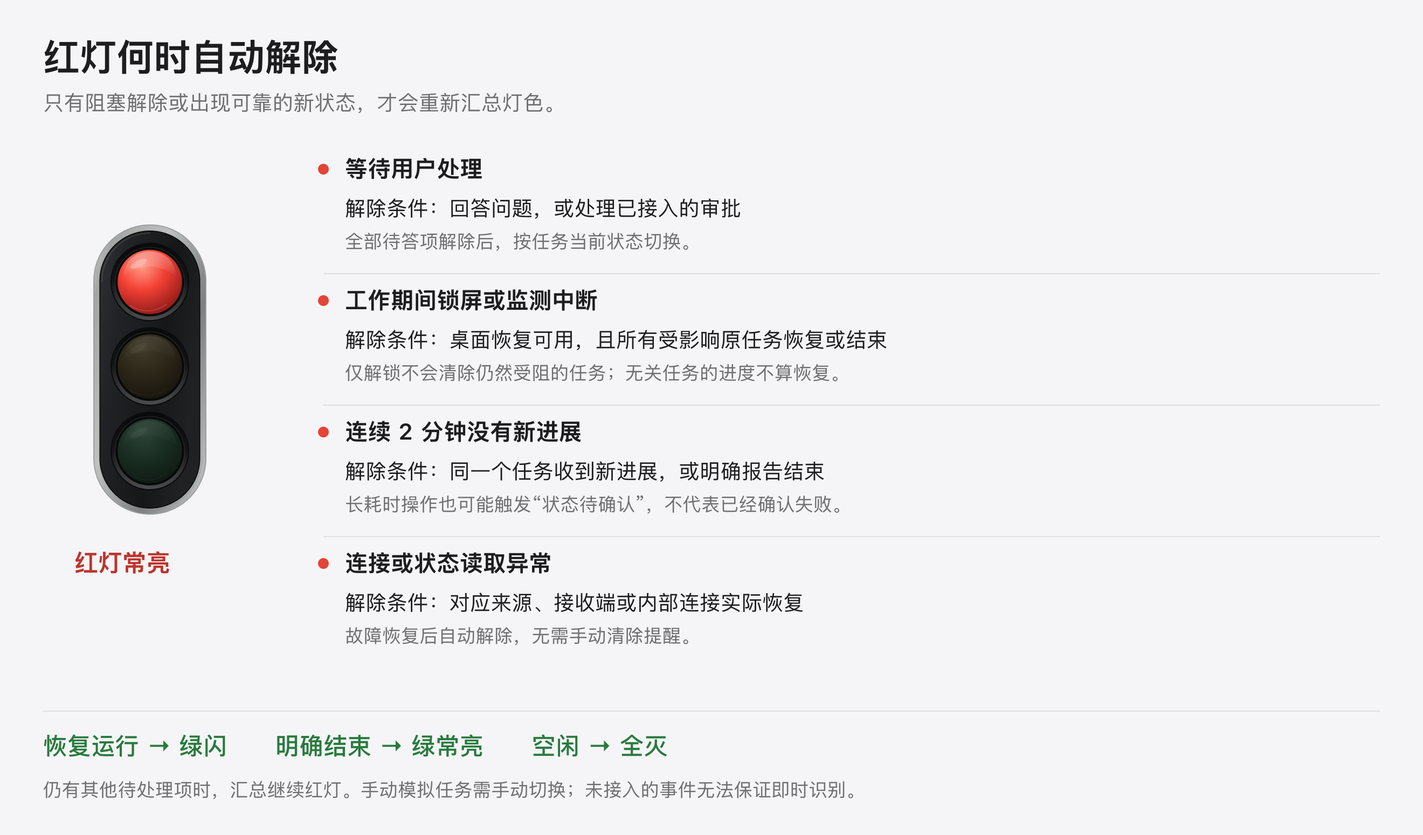
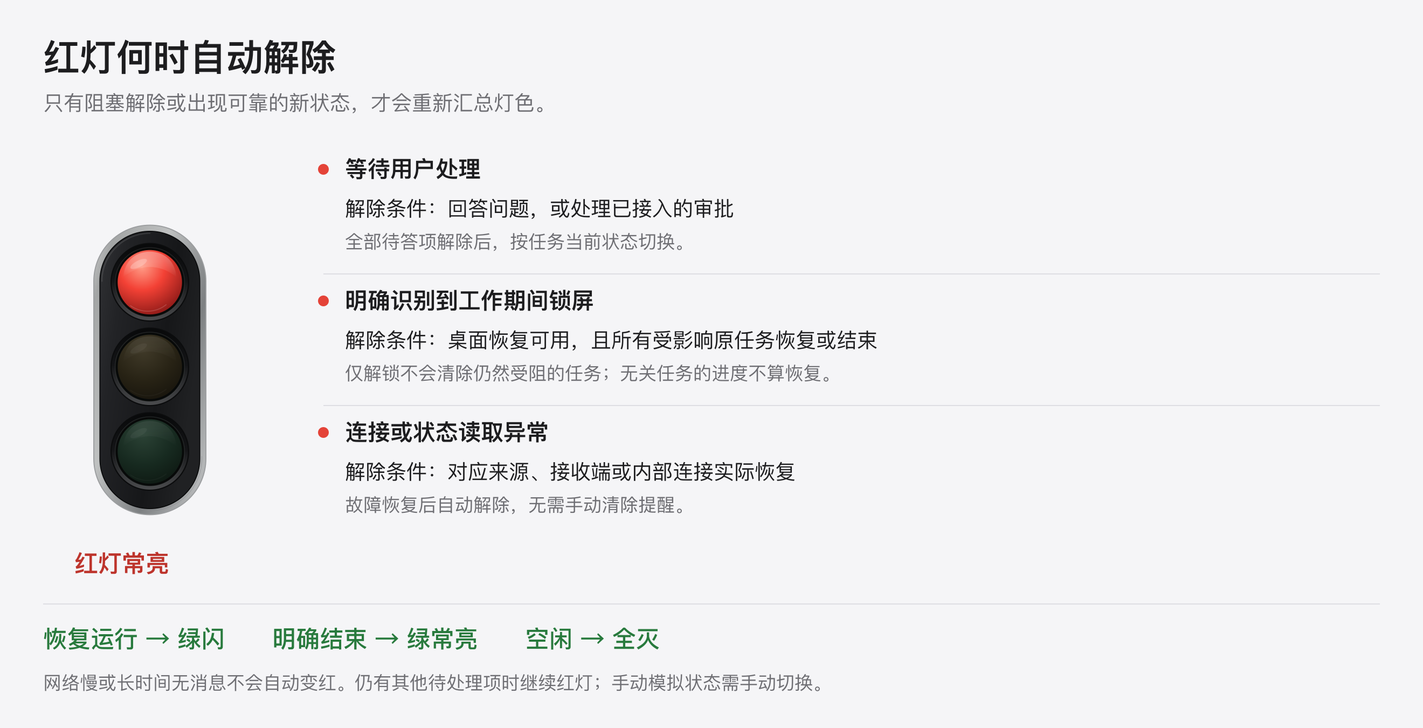
Fix false red lights during quiet or slow tasks in AI Signal 0.1.3

diff --git a/src/App.tsx b/src/App.tsx
@@ -122,6 +122,6 @@ function TaskList({tasks,now,onError}:{tasks:Task[];now:number;onError:(error:st
   const sorted=[...tasks].sort((a,b)=>statuses.indexOf(a.status)-statuses.indexOf(b.status)||b.updatedAt-a.updatedAt);
   return <section className="tasks"><div className="section-heading"><h2>任务</h2><div>{tasks.some(t=>!t.external&&(t.status==='idle'||t.status==='completed'))&&<button className="text-button" onClick={actions.clearCompleted}>清理已结束</button>}<button className="text-button" disabled={tasks.filter(t=>!t.external).length>=100} onClick={()=>setAdding(!adding)}><Plus size={14}/>添加</button></div></div>
     {adding&&<form className="add-form" onSubmit={e=>{e.preventDefault();if(title.trim()){actions.add(title);setTitle('');setAdding(false);}}}><input autoFocus maxLength={200} placeholder="任务名称" aria-label="新任务名称" value={title} onChange={e=>setTitle(e.target.value)}/><button className="button primary" type="submit" disabled={!title.trim()}>添加</button><button className="icon-button" type="button" aria-label="取消添加" onClick={()=>setAdding(false)}><X size={15}/></button></form>}
-    <div className="group task-list">{sorted.length===0?<p className="empty">暂无任务</p>:sorted.map(task=><div className="task-row" key={`${task.external?'external:':'local:'}${task.id}`}><span className={`status-dot ${task.status}`}/><div className="task-title"><strong title={task.title}>{task.title}</strong><small title={task.message}>{task.source}{task.external&&now-task.updatedAt>900_000?' · 状态可能过期':''}</small>{(task.id.startsWith('monitor:')||task.status==='attention')&&task.message&&<p className="task-reason">{task.message}</p>}</div>{!task.external?<select aria-label={`${task.title}的状态`} value={task.status} className={`task-status ${task.status}`} onChange={e=>actions.status(task.id,e.target.value as Status)}>{statuses.map(s=><option key={s} value={s}>{labels[s]}</option>)}</select>:<span className={`external-status ${task.status}`} title={formatAge(task.updatedAt,now)}>{labels[task.status]}</span>}{task.id.startsWith('monitor:')?<button className="text-button acknowledge" onClick={()=>void invoke('acknowledge_monitor',{id:task.id}).catch(e=>onError(String(e)))}>已检查</button>:<button className="delete-task" title={task.external?'移除状态；来源再次上报会重新加入':'删除任务'} aria-label={`${task.external?'移除':'删除'}${task.title}`} onClick={()=>{if(task.external)void invoke('remove_external_task',{id:task.id}).catch(e=>onError(String(e)));else actions.remove(task.id);}}><Trash2 size={14}/></button>}</div>)}</div>
+    <div className="group task-list">{sorted.length===0?<p className="empty">暂无任务</p>:sorted.map(task=><div className="task-row" key={`${task.external?'external:':'local:'}${task.id}`}><span className={`status-dot ${task.status}`}/><div className="task-title"><strong title={task.title}>{task.title}</strong><small title={task.message}>{task.source}{task.external&&now-task.updatedAt>900_000?' · 暂未收到新进展':''}</small>{(task.id.startsWith('monitor:')||task.status==='attention')&&task.message&&<p className="task-reason">{task.message}</p>}</div>{!task.external?<select aria-label={`${task.title}的状态`} value={task.status} className={`task-status ${task.status}`} onChange={e=>actions.status(task.id,e.target.value as Status)}>{statuses.map(s=><option key={s} value={s}>{labels[s]}</option>)}</select>:<span className={`external-status ${task.status}`} title={formatAge(task.updatedAt,now)}>{labels[task.status]}</span>}{task.id.startsWith('monitor:')?<button className="text-button acknowledge" onClick={()=>void invoke('acknowledge_monitor',{id:task.id}).catch(e=>onError(String(e)))}>已检查</button>:<button className="delete-task" title={task.external?'移除状态；来源再次上报会重新加入':'删除任务'} aria-label={`${task.external?'移除':'删除'}${task.title}`} onClick={()=>{if(task.external)void invoke('remove_external_task',{id:task.id}).catch(e=>onError(String(e)));else actions.remove(task.id);}}><Trash2 size={14}/></button>}</div>)}</div>
   </section>;
 }

diff --git a/src/Connections.tsx b/src/Connections.tsx
@@ -46,7 +46,7 @@ export function Connections({bridge,onError}:{bridge?:BridgeInfo;onError:(error:
     <p className="footnote">Codex 仅识别本机可读取的会话。Claude Code 配置后，请在已信任的工作区继续或开始一次任务。</p>
     {bridge?.error&&<div className="notice" role="alert">{bridge.error}</div>}
     <section className="group disclosures">
-      <details><summary>识别范围</summary><div className="details-body"><p>Codex 使用本机会话生命周期记录兼容识别。连接时会扫描近期仍在运行的任务，软件版本、存储位置和云端执行可能影响结果；不会推断所有 Codex Desktop 会话。</p><p>本机识别不能可靠判断所有审批或修复状态。可通过高级 Hooks 接入补充精确事件。连续 2 分钟没有新进展会亮红灯，提示检查原任务；耗时操作也可能触发。运行期间锁屏或监测暂停，原任务恢复进展或结束后自动解除；仅解锁不会误清除仍受阻的任务。</p><p>Claude Code 连接会合并本机状态 Hooks，保留现有配置并自动备份。需要软件支持命令参数 Hooks，并完成其工作区信任；收到真实事件后才显示已识别任务。</p><p>断开时只移除本应用的连接与任务，不改动其他软件设置。Codex 优先使用会话标题，其他来源使用项目目录名，不上传对话内容。</p></div></details>
+      <details><summary>识别范围</summary><div className="details-body"><p>Codex 使用本机会话生命周期记录兼容识别。连接时会扫描近期仍在运行的任务，软件版本、存储位置和云端执行可能影响结果；不会推断所有 Codex Desktop 会话。</p><p>本机识别不能可靠判断所有审批或修复状态。可通过高级 Hooks 接入补充精确事件。耗时操作、网络慢或长时间无新事件会保留最近明确状态，不会仅因此亮红灯。明确识别到运行期间锁屏时，原任务恢复进展或结束后自动解除；仅解锁不会误清除仍受阻的任务。</p><p>Claude Code 连接会合并本机状态 Hooks，保留现有配置并自动备份。需要软件支持命令参数 Hooks，并完成其工作区信任；收到真实事件后才显示已识别任务。</p><p>断开时只移除本应用的连接与任务，不改动其他软件设置。Codex 优先使用会话标题，其他来源使用项目目录名，不上传对话内容。</p></div></details>
       <details><summary>高级接入</summary><div className="details-body"><p>其他支持事件或 Hooks 的软件可通过本机接口上报任务。</p><p>{bridge?.available?`接收地址：127.0.0.1:${bridge.port}`:'本机接收端仅在桌面应用中可用。'}</p><p>Codex Hooks 配置生成：</p><code>python3 integrations/generate_hooks.py</code><p>先连接 Codex，再审阅配置并在 Codex 中信任 Hooks。完整步骤见 docs/INTEGRATION.md。</p><p>黄灯需明确上报；Stop 只表示本轮结束。</p><a href="https://learn.chatgpt.com/docs/hooks" target="_blank" rel="noreferrer">Codex 官方文档<ExternalLink size={12}/></a><br/><a href="https://code.claude.com/docs/en/hooks" target="_blank" rel="noreferrer">Claude Code 官方文档<ExternalLink size={12}/></a></div></details>
     </section>
   </>;

diff --git a/src-tauri/src/monitor.rs b/src-tauri/src/monitor.rs
@@ -3,11 +3,9 @@ use serde::{Deserialize, Serialize};
 use std::{collections::HashMap, time::{Duration, SystemTime, UNIX_EPOCH}};
 use tauri::{Emitter, Manager};
 
-const STALE_MS: u64 = 120_000;
-const SUSPEND_GAP_MS: u64 = 20_000;
 fn now_ms() -> u64 {SystemTime::now().duration_since(UNIX_EPOCH).unwrap_or_default().as_millis() as u64}
 fn working(task: &ExternalTask) -> bool {matches!(task.status, Status::Running | Status::Repairing)}
-fn sticky(id: &str) -> bool {matches!(id, "monitor:screen" | "monitor:suspend")}
+fn sticky(id: &str) -> bool {id == "monitor:screen"}
 
 #[derive(Default, Deserialize, Serialize)]
 struct SavedMonitor {
@@ -18,12 +16,8 @@ struct SavedMonitor {
 #[derive(Default)]
 pub(crate) struct Monitor {
     alerts: HashMap<String, ExternalTask>,
-    grace: HashMap<String, u64>,
     targets: HashMap<String,HashMap<String,u64>>,
     recovery_after: HashMap<String,u64>,
-    last_tick: u64,
-    was_busy: bool,
-    previous_working: HashMap<String,u64>,
     desktop_blocked: bool,
 }
 impl Monitor {
@@ -54,15 +48,9 @@ impl Monitor {
                 _=>{}
             }
         }
-        if (busy || self.was_busy) && self.last_tick!=0 && now.saturating_sub(self.last_tick)>SUSPEND_GAP_MS {
-            self.raise("monitor:suspend", "工作期间监测曾中断", "电脑可能睡眠，或监测进程曾暂停超过 20 秒。原任务恢复或结束后自动解除。", now);
-            self.track_affected("monitor:suspend",tasks);
-            let affected=self.targets.entry("monitor:suspend".into()).or_default();
-            for (id,at) in &self.previous_working {affected.entry(id.clone()).or_insert(*at);}
-        }
         if !self.desktop_blocked {
             let mut recovered=Vec::new();
-            for id in ["monitor:screen","monitor:suspend"] {
+            for id in ["monitor:screen"] {
                 let Some(alert)=self.alerts.get(id) else {continue;};
                 let after=*self.recovery_after.entry(id.into()).or_insert(now);
                 // Migrate older reminders without treating an unrelated task as recovery evidence.
@@ -75,9 +63,6 @@ impl Monitor {
             }
             for id in recovered {self.alerts.remove(&id);self.targets.remove(&id);self.recovery_after.remove(&id);}
         }
-        self.last_tick=now;
-        self.was_busy=busy;
-        self.previous_working=tasks.iter().filter(|task|working(task)).map(|task|(task.id.clone(),task.updated_at)).collect();
         let mut keep=Vec::new();
         if busy && self.desktop_blocked {keep.push("monitor:desktop".to_owned());}
         for (provider,error) in faults {
@@ -85,22 +70,14 @@ impl Monitor {
             self.raise(&id,"任务连接异常", &format!("{provider}：{error}。当前状态无法确认，请检查来源软件。"),now);
             keep.push(id);
         }
-        for task in tasks.iter().filter(|task|working(task)) {
-            let id=format!("monitor:stale:{}",task.id);
-            let last=task.updated_at.max(*self.grace.get(&task.id).unwrap_or(&0));
-            if now.saturating_sub(last)>=STALE_MS {
-                self.raise(&id,&format!("状态待确认：{}", task.title),"连续 2 分钟没有收到新进展。可能在执行耗时操作，也可能在等待权限、网络或人工处理；请检查原任务。收到新进展后自动解除。",now);
-                keep.push(id);
-            }
-        }
+        // Silence is not evidence of a blocker: preserve the last explicit task state.
+        // This also drops timeout-only reminders created by older versions.
         self.alerts.retain(|id,_|sticky(id)||keep.contains(id));
-        self.grace.retain(|id,_|tasks.iter().any(|task|task.id==*id && working(task)));
     }
-    fn acknowledge(&mut self, id: &str, now: u64) -> Result<(),String> {
+    fn acknowledge(&mut self, id: &str, _now: u64) -> Result<(),String> {
         if !self.alerts.contains_key(id) {return Ok(());}
         if id.starts_with("monitor:connection:") || id=="monitor:desktop" {return Err("请先恢复连接或系统状态；恢复后提醒会自动解除。".into());}
         if self.desktop_blocked && sticky(id) {return Err("请先解锁并恢复桌面，再检查原任务。".into());}
-        if let Some(task_id)=id.strip_prefix("monitor:stale:") {self.grace.insert(task_id.into(),now);}
         self.alerts.remove(id);
         self.targets.remove(id);self.recovery_after.remove(id);
         Ok(())
@@ -241,19 +218,24 @@ mod tests {
         let mut m=Monitor::default();m.tick(1000,Ok(true),&[],&HashMap::new());assert!(m.alerts.is_empty());
         m.tick(3000,Ok(true),&[task(3000)],&HashMap::new());assert!(m.alerts.contains_key("monitor:screen"));
     }
-    #[test] fn quiet_tasks_turn_red_and_new_progress_or_completion_clears_timeout() {
-        let mut m=Monitor::default();let mut t=task(1000);
-        m.tick(120999,Ok(false),&[t.clone()],&HashMap::new());assert!(m.alerts.is_empty());
-        m.tick(121000,Ok(false),&[t.clone()],&HashMap::new());assert!(m.alerts.contains_key("monitor:stale:codex:test"));
-        m.acknowledge("monitor:stale:codex:test",121000).unwrap();m.tick(123000,Ok(false),&[t.clone()],&HashMap::new());assert!(m.alerts.is_empty());
-        m.tick(241000,Ok(false),&[t.clone()],&HashMap::new());assert!(m.alerts.contains_key("monitor:stale:codex:test"));
-        t.updated_at=242000;m.tick(242000,Ok(false),&[t.clone()],&HashMap::new());assert!(!m.alerts.contains_key("monitor:stale:codex:test"));
-        t.status=Status::Completed;m.tick(500000,Ok(false),&[t],&HashMap::new());assert!(!m.alerts.contains_key("monitor:stale:codex:test"));
+    #[test] fn quiet_running_and_repairing_tasks_never_turn_red_from_elapsed_time() {
+        for status in [Status::Running,Status::Repairing] {
+            let mut m=Monitor::default();let mut t=task(1000);t.status=status;
+            for now in (1000..=1_201_000).step_by(2000) {
+                m.tick(now,Ok(false),&[t.clone()],&HashMap::new());assert!(m.alerts.is_empty());
+            }
+            m.tick(1_203_000,Ok(true),&[t],&HashMap::new());
+            assert!(m.alerts.contains_key("monitor:screen"));
+        }
     }
-    #[test] fn suspend_and_unreadable_desktop_are_not_reported_green() {
+    #[test] fn old_timeout_only_reminders_clear_without_manual_acknowledgement() {
+        let mut m=Monitor::default();m.raise("monitor:stale:codex:test","old timeout","old timeout",1000);
+        m.tick(3000,Ok(false),&[task(1000)],&HashMap::new());assert!(m.alerts.is_empty());
+    }
+    #[test] fn unreadable_desktop_alert_recovers_automatically() {
         let mut m=Monitor::default();m.tick(1000,Ok(false),&[task(1000)],&HashMap::new());
         m.tick(31000,Err("unavailable".into()),&[task(31000)],&HashMap::new());
-        assert!(m.alerts.contains_key("monitor:suspend"));assert!(m.alerts.contains_key("monitor:desktop"));
+        assert!(!m.alerts.contains_key("monitor:suspend"));assert!(m.alerts.contains_key("monitor:desktop"));
         m.tick(33000,Ok(false),&[task(33000)],&HashMap::new());assert!(!m.alerts.contains_key("monitor:desktop"));assert!(!m.alerts.contains_key("monitor:suspend"));
     }
     #[test] fn connection_fault_requires_actual_recovery() {
@@ -290,6 +272,13 @@ mod tests {
         let mut m=Monitor::default();m.tick(1000,Ok(false),&[task(1000)],&HashMap::new());
         let mut completed=task(30000);completed.status=Status::Completed;
         m.tick(31000,Ok(false),&[completed],&HashMap::new());assert!(m.alerts.is_empty());
+    }
+
+    #[test] fn a_monitoring_gap_alone_does_not_require_human_intervention() {
+        let mut m=Monitor::default();m.tick(1000,Ok(false),&[task(1000)],&HashMap::new());
+        m.tick(1_201_000,Ok(false),&[task(1000)],&HashMap::new());assert!(m.alerts.is_empty());
+        m.raise("monitor:suspend","old gap","old gap",1000);
+        m.tick(1_203_000,Ok(false),&[task(1000)],&HashMap::new());assert!(m.alerts.is_empty());
     }
 
 }

diff --git a/README.md b/README.md
@@ -1,4 +1,4 @@
-# AI Signal 0.1.2
+# AI Signal 0.1.3
 
 桌面悬浮状态灯，支持拖动、置顶和任务状态汇总。Tauri 2 + React + Vite，优先 macOS，包含 Windows 实现。
 
@@ -8,7 +8,7 @@
 
 | 灯色与灯效 | 什么时候出现 | 你需要做什么 |
 | --- | --- | --- |
-| **红灯常亮**，外围缓慢呼吸 | 等待你回答问题或处理已接入的审批；工作期间锁屏、监测中断、连接异常；运行任务连续 2 分钟无新进展 | 打开任务列表查看原因，在来源软件中处理。耗时操作也可能触发“状态待确认”，不等于已经失败。 |
+| **红灯常亮**，外围缓慢呼吸 | 等待你回答问题或处理已接入的审批；工作期间锁屏、连接异常 | 打开任务列表查看原因，在来源软件中处理。网络慢或耗时操作没有新消息，不会仅因此亮红灯。 |
 | **黄灯规律双闪** | 来源**明确上报** AI 正在自动修复，或你手动选择“修复中” | 等待 AI 处理。普通错误不会被直接推断为自动修复。 |
 | **绿灯不规则短闪** | 已识别任务正在运行，或原任务已恢复并产生新进展 | 可以继续自己的工作。闪烁为预设节奏，不代表实时 CPU、磁盘或工具调用负载。 |
 | **绿灯确认双闪后低亮常亮** | 手动标记完成，或接入来源报告本轮结束 | 查看结果；本轮结束不等于整个任务已经完成或通过验收。 |
@@ -20,16 +20,15 @@
 
 ## 红灯如何自动解除
 
-![红灯自动解除条件：回答或审批完成、解锁后原任务恢复、无进展任务收到新事件、连接故障实际恢复；其他待处理项仍然保持红灯](docs/images/signal-recovery.png)
+![红灯自动解除条件：回答或审批完成、解锁后原任务恢复、连接故障实际恢复；其他待处理项仍然保持红灯](docs/images/signal-recovery.png)
 
 - **等待回答**：回答全部问题后，按任务当前状态更新；问题“已受理”不等于你已经回答。
-- **锁屏或监测中断**：桌面恢复可用，且所有受影响的原任务恢复进展或明确结束后，自动解除。仅解锁或其他无关任务有进度，不会误清除提醒。
-- **连续 2 分钟无进展**：同一个任务收到新进展或明确结束后自动解除。
+- **锁屏**：桌面恢复可用，且所有受影响的原任务恢复进展或明确结束后，自动解除。仅解锁或其他无关任务有进度，不会误清除提醒。
 - **连接异常**：对应故障实际恢复后自动解除。
 
 恢复运行时绿闪，明确结束时绿常亮，明确空闲时全灭；若仍有其他待处理项，汇总继续红灯。“已检查”保留为手动兜底，**手动模拟任务仍需手动切换**。
 
-以上说明针对已连接、可读取或明确上报的事件，**不保证覆盖所有 Codex Desktop、远程或云端会话**；没有明确事件的未知阻塞采用无进展提醒兜底。更详细的边界见 [接入说明](docs/INTEGRATION.md)、[红灯修复验收](docs/ATTENTION-FIX.md)与[自动解除验收](docs/RECOVERY-FIX.md)。
+以上说明针对已连接、可读取或明确上报的事件，**不保证覆盖所有 Codex Desktop、远程或云端会话**；没有明确事件时保留最近明确状态，不会按消息间隔推断需要人工处理。更详细的边界见 [接入说明](docs/INTEGRATION.md)、[红灯修复验收](docs/ATTENTION-FIX.md)与[自动解除验收](docs/RECOVERY-FIX.md)。
 
 ## 直接使用 macOS 应用
 
@@ -54,11 +53,11 @@
 
 用户输入请求与明确的锁屏错误优先显示红灯；异步问题的 `accepted` 只表示已显示，不能当作已经回答。未回答的问题不会被普通运行／结束事件覆盖。部分回答只解除对应问题；新的普通用户请求会结束上一轮遗留的等待。
 
-原生监测每 2 秒读取桌面状态。工作期间锁屏，或监测间隔超过 20 秒，保留红灯提醒；桌面可用且所有受影响原任务恢复进展或明确结束后自动解除。这两类提醒及任务关联跨重启保存。锁屏时普通窗口无法显示在系统安全界面上，解锁后如原任务仍未恢复，提醒继续保留；其他无关任务的进度不能解除它。没有活动任务时正常锁屏不会误报。
+原生监测每 2 秒读取桌面状态。明确识别到工作期间锁屏时，保留红灯提醒；桌面可用且所有受影响原任务恢复进展或明确结束后自动解除。锁屏提醒及任务关联跨重启保存。锁屏时普通窗口无法显示在系统安全界面上，解锁后如原任务仍未恢复，提醒继续保留；其他无关任务的进度不能解除它。没有活动任务时正常锁屏不会误报。
 
-自动任务连续 2 分钟没有新事件会显示红灯「状态待确认」，不再继续绿闪。耗时工具也可能触发；收到进展自动解除，「已检查」仅给予 2 分钟观察期。来源读取失败、范围超限、必要接收端不可用和面板与原生进程通信失败也亮红灯，故障恢复后解除。纯手动任务不使用自动超时判断。
+**网络慢、耗时操作、长时间无新消息或单纯监测间隔变长，不会自动转红，也不要求点击“已检查”。** 运行任务继续绿闪；修复任务保留黄灯。新事件到达后，按明确的运行、完成、空闲或待处理状态自动切换。来源读取失败、范围超限、必要接收端不可用和面板与原生进程通信失败也亮红灯，故障恢复后解除。纯手动任务不使用自动超时判断。
 
-兼容解析不能覆盖全部软件状态。未知审批若没有明确事件，依靠 2 分钟兜底；应用退出、未连接来源及扫描范围外的任务无法保证提示。完整验证范围见 [修复验收](docs/ATTENTION-FIX.md)。
+兼容解析不能覆盖全部软件状态。未知审批若没有明确事件，不按静默时长推断；应用退出、未连接来源及扫描范围外的任务无法保证提示。完整验证范围见 [修复验收](docs/ATTENTION-FIX.md)。
 
 ## 从源码运行
 

diff --git a/docs/INTEGRATION.md b/docs/INTEGRATION.md
@@ -45,7 +45,7 @@ AI Signal 提供本机事件入口和一个无第三方依赖的 Python 3 适配
 | `Interrupt`、`SessionEnd` | 全灭 / `idle` | 本轮中断或会话结束 |
 | 显式脚本状态 `repairing` | 黄闪 | 由你已知的修复流程或手动模拟发送 |
 
-适配器不根据文本中出现 “error” 判断自动修复；错误结果也可能需要人工处理。当前没有可靠的通用事件能识别所有“AI 正在自修复”和所有“等待用户回答”。本机可读取的 Codex 提问记录已做兼容识别；其他来源仍需明确上报，缺少进展时用红灯兜底。审批请求可能随后自动通过，红灯提示你检查审批界面。子代理结束不会把父任务标成完成；同一会话的工具事件可能交错，以应用最后接收的状态为准。`SessionStart` 不改变状态，避免中途压缩上下文重新触发该事件时错误熄灯。
+适配器不根据文本中出现 “error” 判断自动修复；错误结果也可能需要人工处理。当前没有可靠的通用事件能识别所有“AI 正在自修复”和所有“等待用户回答”。本机可读取的 Codex 提问记录已做兼容识别；其他来源仍需明确上报，缺少明确事件时保留最近明确状态，不按静默时间转红。审批请求可能随后自动通过，红灯提示你检查审批界面。子代理结束不会把父任务标成完成；同一会话的工具事件可能交错，以应用最后接收的状态为准。`SessionStart` 不改变状态，避免中途压缩上下文重新触发该事件时错误熄灯。
 
 ## 先验证本机链路
 
@@ -123,4 +123,4 @@ python3 -m unittest discover -s integrations -p 'test_*.py' -v
 
 测试覆盖事件映射、隐私字段、非法输入、Windows 路径、HTTP 认证投递、重定向拒绝、投递失败及 `Stop` 输出协议。HTTP 测试使用临时本机模拟接收器，不调用 Codex、不修改任何用户配置。测试结果与原生端实际运行记录见项目验收说明。
 
-本版本未通过安装 Hook 的方式验证正在使用的 Codex Desktop 自动事件流。它无法保证覆盖全部会话、远程机器、浏览器端或退出后的历史任务；应用未运行时事件不会排队重放。同一次应用运行期间，外部任务保留最后接收到的状态，运行／修复状态超过 2 分钟没有新事件会触发红灯保护；来源再次发送相同 `id` 的事件时，任务会重新出现。重新启动应用会清空纯事件任务，并重新扫描已启用的 Codex 来源。`Stop` 的绿常亮只表示本轮结束，不代表任务已经验收。开机启动也不在此适配器范围内。
+本版本未通过安装 Hook 的方式验证正在使用的 Codex Desktop 自动事件流。它无法保证覆盖全部会话、远程机器、浏览器端或退出后的历史任务；应用未运行时事件不会排队重放。同一次应用运行期间，外部任务保留最后接收到的状态，运行／修复状态不会仅因缺少新消息而转红；来源再次发送相同 `id` 的事件时，任务会重新出现。重新启动应用会清空纯事件任务，并重新扫描已启用的 Codex 来源。`Stop` 的绿常亮只表示本轮结束，不代表任务已经验收。开机启动也不在此适配器范围内。

diff --git a/docs/QUIET-STATE-FIX.md b/docs/QUIET-STATE-FIX.md
@@ -1,0 +1,14 @@
+# 0.1.3：没有新消息不再误报红灯
+
+取消原先的「连续 2 分钟无进展 → 红灯」规则，同时删除确认后的 2 分钟观察期逻辑。仅凭监测间隔超过 20 秒也不再转红；旧版这类暂停提醒自动丢弃。网络慢、耗时工具、后台任务或流式消息间隔本身不构成人工介入证据。
+
+- 运行任务无新事件时继续绿闪；修复任务保留黄灯，不会按时间自动转红。
+- 收到真实待回答、审批、锁屏或明确来源故障等证据，才按对应规则提醒。
+- 收到恢复、完成、空闲或故障恢复事件后自动切换；静默状态不需要手动点击「已检查」。
+- 旧版超时提醒在新监测周期自动移除，不需要人工确认。保留真实锁屏提醒与原任务恢复关联，避免撤销此前的锁屏保护。
+
+回归测试模拟原生线程持续正常检查、同一个任务超过 20 分钟无新事件，验证 Running 和 Repairing 均不会产生红灯。另验证旧超时提醒无需确认即可清除，以及长时间静默后真正锁屏仍会触发提醒。
+
+README、连接页说明、灯色总览图及红灯解除图同步更新。历史版本验收记录已明确标注旧规则失效。未知且未接入的审批无法靠消息间隔可靠判断，不声称能识别所有软件界面状态。
+
+验证：28 项 Rust 回归测试、7 项前端测试及正式应用构建通过。20 分钟静默通过时间推进模拟验证，不等同于已等待 20 分钟实机复测。Windows 与完整物理锁屏周期未在本次重新实测。

diff --git a/docs/VALIDATION.md b/docs/VALIDATION.md
@@ -1,5 +1,7 @@
 # AI Signal 验收记录
 
+最新 0.1.3 静默状态修复见 [QUIET-STATE-FIX.md](QUIET-STATE-FIX.md)。
+
 最新 0.1.2 自动解除修复见 [RECOVERY-FIX.md](RECOVERY-FIX.md)。0.1.1 红灯修复与新增测试见 [ATTENTION-FIX.md](ATTENTION-FIX.md)。以下为初始 MVP 验收记录。
 
 日期：2026-10-26。实测环境：macOS 26.3、Apple Silicon / arm64。应用最低系统配置为 macOS 12.3，该最低版本未另做实机验证。

diff --git a/docs/RECOVERY-FIX.md b/docs/RECOVERY-FIX.md
@@ -1,5 +1,7 @@
 # 0.1.2 自动解除红灯
 
+> 历史版本验收记录。0.1.3 已取消“无新进展自动红灯”，当前规则见 [QUIET-STATE-FIX.md](QUIET-STATE-FIX.md)。
+
 修复日期：2026-10-26。
 
 实际排查确认：旧版仍亮红灯的原因是监测保护中的「工作期间屏幕被锁定」，当前任务已运行，但旧提醒被设计为只能手动确认。

diff --git a/docs/ATTENTION-FIX.md b/docs/ATTENTION-FIX.md
@@ -1,5 +1,7 @@
 # 0.1.1 红灯漏报修复验收
 
+> 历史版本验收记录。0.1.3 已取消“无新进展自动红灯”，当前规则见 [QUIET-STATE-FIX.md](QUIET-STATE-FIX.md)。
+
 日期：2026-10-26。环境：macOS 26.3，Apple Silicon。
 
 ## 修复内容
